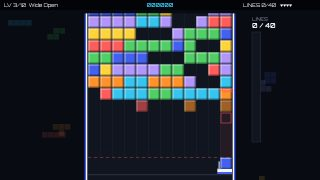
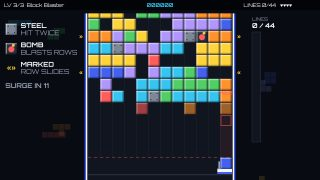
Give Block Blaster three levels and a combo ending (ti3)
First Wall (plain single gaps, 36 lines), Steel and Bombs (wide gaps,
wells, steel plates and bombs, 40 lines) and Block Blaster, the last
wall (sliding rows and surges on top of everything, 44 lines). Speeds
are settled with a bot that thinks 0.7 s per shot: about a minute per
wall, the finale a minute and a half. The ending clears a wall from the
bottom up in one combo, rows bursting into blocks under block-coloured
fireworks. Local tests move to levels 1/2/3; new thumbnail.

Claude-Session: https://claude.ai/code/session_016R86i3evNakTHXcnyVkEfD

diff --git a/internal/generator/templates/themes/tetris/game.js b/internal/generator/templates/themes/tetris/game.js
@@ -11,9 +11,10 @@
  * line, and they fall off when the row they hang from clears. The wall
  * reaching the launcher line costs a life.
  *
- * Later levels add wide gaps, two-row wells, steel plates that need two hits
- * before they count as filled, bombs that take the neighbouring rows with
- * them, rows that shift sideways, and surges that slam the wall down a cell.
+ * The second wall adds wide gaps, two-row wells, steel plates that need two
+ * hits before they count as filled and bombs that take the neighbouring rows
+ * with them; the last wall adds rows that shift sideways and surges that
+ * slam it down a cell. Clearing it ends in a screen-clearing combo.
  *
  * On a phone (coarse pointer) a tap on the board moves the launcher to the
  * tapped column and fires at once; the pad (← → FIRE ↓) works as the keys do.
@@ -45,22 +46,18 @@
     // shift: chance a row slides sideways every `every` seconds · surge: seconds between slams
     // The descent gets faster on every level; what a row asks of the player is
     // tuned so the shots per second needed to hold the wall rise steadily too.
-    // Quotas and speeds of levels 6-10 were settled with a bot that needs time
-    // to think, to travel, sometimes hesitates and sometimes mis-aims. With the
-    // four lives of this game a player with about 0.45s of thought per shot
-    // keeps two lives on 6-8, one on 9, and wins 10 in about two tries of three;
-    // at 0.4s level 10 is nearly safe, at 0.5s levels 9 and 10 are mostly lost.
+    // Speeds and quotas were settled with a bot that walks the launcher and
+    // then thinks before every shot: at 0.7 s a shot (a casual player) it
+    // clears the first two walls in about one minute each without losing a
+    // life and wins the finale in a minute and a half with two lives lost.
     var LEVELS = [
-        { speed: 13, quota: 40, gmin: 1, gmax: 2, wide: 0, well: 0, armour: 0, plates: 0, bomb: 0, shift: 0, every: 0, surge: 0 },
-        { speed: 14.5, quota: 40, gmin: 2, gmax: 2, wide: 0, well: 0, armour: 0, plates: 0, bomb: 0, shift: 0, every: 0, surge: 0 },
-        { speed: 16, quota: 40, gmin: 1, gmax: 1, wide: 0.9, well: 0, armour: 0, plates: 0, bomb: 0, shift: 0, every: 0, surge: 0 },
-        { speed: 17, quota: 42, gmin: 1, gmax: 1, wide: 0.5, well: 0.65, armour: 0, plates: 0, bomb: 0, shift: 0, every: 0, surge: 0 },
-        { speed: 18, quota: 44, gmin: 1, gmax: 1, wide: 0.25, well: 0.1, armour: 0.5, plates: 1, bomb: 0, shift: 0, every: 0, surge: 0 },
-        { speed: 19, quota: 44, gmin: 2, gmax: 2, wide: 0.2, well: 0.1, armour: 0.15, plates: 1, bomb: 0.24, shift: 0, every: 0, surge: 0 },
-        { speed: 20, quota: 44, gmin: 2, gmax: 2, wide: 0.15, well: 0, armour: 0, plates: 0, bomb: 0.1, shift: 0.45, every: 1.6, surge: 0 },
-        { speed: 21, quota: 56, gmin: 1, gmax: 1, wide: 0.3, well: 0.25, armour: 0.25, plates: 1, bomb: 0.15, shift: 0, every: 0, surge: 10 },
-        { speed: 21.25, quota: 48, gmin: 1, gmax: 1, wide: 0.4, well: 0.2, armour: 0.15, plates: 2, bomb: 0.1, shift: 0.3, every: 1.5, surge: 0 },
-        { speed: 21.5, quota: 50, gmin: 1, gmax: 2, wide: 0.3, well: 0.2, armour: 0.15, plates: 2, bomb: 0.2, shift: 0.3, every: 1.4, surge: 16 }
+        // Introduction: plain rows with one or two single gaps.
+        { speed: 13, quota: 36, gmin: 1, gmax: 2, wide: 0, well: 0, armour: 0, plates: 0, bomb: 0, shift: 0, every: 0, surge: 0 },
+        // Development: wide gaps and wells, steel plates and bombs.
+        { speed: 15.5, quota: 40, gmin: 1, gmax: 1, wide: 0.35, well: 0.25, armour: 0.35, plates: 1, bomb: 0.18, shift: 0, every: 0, surge: 0 },
+        // Finale, the last wall: everything, plus rows that slide on a beat
+        // and surges that slam the wall down a cell.
+        { speed: 17.5, quota: 44, gmin: 1, gmax: 2, wide: 0.3, well: 0.2, armour: 0.15, plates: 2, bomb: 0.2, shift: 0.3, every: 1.5, surge: 16 }
     ];
     // Tetromino outlines for the silhouettes that drift down the side panels.
     var SHAPES = [
@@ -807,6 +804,49 @@
         drawMeter(s, ctx);
     }
 
+    // ---- the ending ----------------------------------------------------------
+
+    // A four-row wall drops into the middle of the screen and clears from the
+    // bottom up as one long combo; every cleared row bursts into its blocks,
+    // which fly out like fireworks. It repeats every ENDING_CYCLE seconds.
+    // Everything follows from the scene's clock: the scene keeps no state.
+    var ENDING_CYCLE = 3.2, ENDING_ROWS = 4, ENDING_BASE = 370;
+
+    function hash(a, b, c) {
+        var h = Math.sin(a * 127.1 + b * 311.7 + c * 74.7) * 43758.5453;
+        return h - Math.floor(h);
+    }
+
+    function drawEndingRow(ctx, k, r, t) {
+        var clearAt = 0.7 + r * 0.35, y = ENDING_BASE - (r + 1) * CELL - Math.max(0, 1 - t / 0.5) * 220, c, dt, x;
+        // The standing wall is faint: the score and the buttons are on top.
+        ctx.globalAlpha = 0.35;
+        if (t < clearAt) {
+            for (c = 0; c < COLS; c++) drawBlock(ctx, OX + c * CELL, y, COLORS[Math.floor(hash(k, r, c) * COLORS.length)]);
+            ctx.globalAlpha = 1;
+            return;
+        }
+        dt = t - clearAt;
+        if (dt < 0.12) { ctx.fillStyle = INK; ctx.fillRect(OX, y, BW, CELL); ctx.globalAlpha = 1; return; }
+        if (dt > 1.6) return;
+        ctx.globalAlpha = 1 - dt / 1.6;
+        for (c = 0; c < COLS; c++) {
+            x = colX(c) + ((c - 5.5) * 45 + (hash(c, r, k) - 0.5) * 120) * dt;
+            ctx.fillStyle = COLORS[Math.floor(hash(k, r, c) * COLORS.length)];
+            ctx.fillRect(x - 8, y + CELL / 2 - (260 + hash(r, c, k) * 220) * dt + 420 * dt * dt - 8, 16, 16);
+        }
+        ctx.globalAlpha = 1;
+    }
+
+    function drawEnding(e, ctx) {
+        var k = Math.floor(e.t / ENDING_CYCLE), t = e.t - k * ENDING_CYCLE, r, cleared = 0;
+        for (r = 0; r < ENDING_ROWS; r++) {
+            drawEndingRow(ctx, k, r, t);
+            if (t >= 0.7 + r * 0.35) cleared++;
+        }
+        if (cleared > 1) G.text('COMBO x' + cleared, OX + BW + 24, ENDING_BASE - 2 * CELL, { size: 28, bold: true, color: YELLOW });
+    }
+
     function hud(s) {
         return 'LINES ' + s.lines + '/' + s.cfg.quota + (s.combo > 1 && s.comboT > 0 ? '  x' + Math.min(s.combo, 5) : '');
     }
@@ -820,7 +860,7 @@
             '↓ pull the wall down faster for bonus points',
             'A block sticks under the lowest one; with no gap to fill it hangs there'
         ],
-        levelNames: ['First Wall', 'Double Gap', 'Wide Open', 'Deep Wells', 'Steel Plate', 'Bomb Squad', 'Sidewinder', 'Surge', 'Steel Slide', 'Block Blaster'],
+        levelNames: ['First Wall', 'Steel and Bombs', 'Block Blaster'],
         colors: { bg: '#080b12', fg: '#f4f7fb', accent: '#36c5f0', dim: '#929cad' },
         lives: 4,
         // ↑ and B do nothing here. dirs: 4 keeps a thumb that is a little off
@@ -839,6 +879,12 @@
             drums: { k: 'x...x...x...x...', s: '....x.......x..x', h: '..x...x...x...x.' },
             leadWave: 'square', bassWave: 'triangle', arpWave: 'triangle', leadOct: 2
         },
-        init: init, update: update, draw: draw, hud: hud
+        init: init, update: update, draw: draw, hud: hud,
+        ending: {
+            title: 'WALL CLEARED',
+            text: 'The last wall is rubble. Every line blasted.',
+            colors: COLORS,
+            draw: drawEnding
+        }
     });
 })();

diff --git a/integrationtests/games/tetris-bot.js b/integrationtests/games/tetris-bot.js
@@ -13,7 +13,7 @@
         }
         return best;
     }
-    [1, 5, 10].forEach(function (level) {
+    [1, 2, 3].forEach(function (level) {
         G.debug.start(level);
         for (var n = 0; n < 36000 && G.debug.state().screen === 'play'; n++) {
             G.debug.step(1, function (_, s) {

diff --git a/docs/games.md b/docs/games.md
@@ -706,10 +706,17 @@ bottom moves by column (`← →`) and fires a block up its column (`SPACE`); th
 block sticks under the lowest block there. A row with no gaps clears (line
 clear), and everything above it drops. Lose a life when the wall reaches the
 launcher line. Clear the level's line quota. `↓` speeds the descent for bonus
-points. Levels: faster descent, wider gaps patterns, armoured blocks that
-need two hits, bomb blocks that clear neighbours, rows that shift sideways,
-level 10 has all. Tetromino colours, chunky clear effects, a brisk minor-key
-folk-dance style tune of your own.
+points. Levels: 1 *First Wall* — plain rows with one or two single gaps, 36
+lines; 2 *Steel and Bombs* — a faster wall with wide gaps, two-row wells,
+steel plates that need two hits and bombs that blast the neighbouring rows,
+40 lines; 3 *Block Blaster* — the last wall, fastest, with everything plus
+rows that slide sideways on a beat and surges that slam it down a cell, 44
+lines. Speeds and quotas are set so a player who takes 0.7 s per shot wins
+every level in one to one and a half minutes. The ending: a wall drops into
+the middle of the screen and clears from the bottom up in one long combo,
+each row bursting into flying blocks, under block-coloured fireworks.
+Tetromino colours, chunky clear effects, a brisk minor-key folk-dance style
+tune of your own.
 
 ### tropicale — Island Hopper (classic jump'n'run)
 Side-scrolling tile platformer (use `G.tileMove`). `← →` run with
